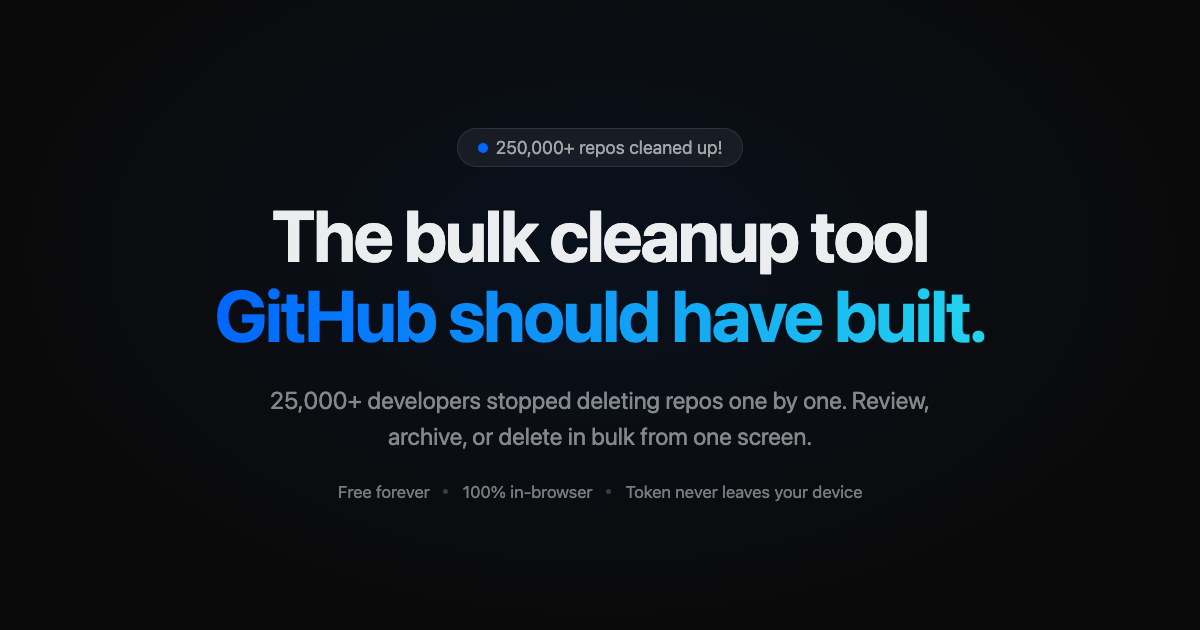
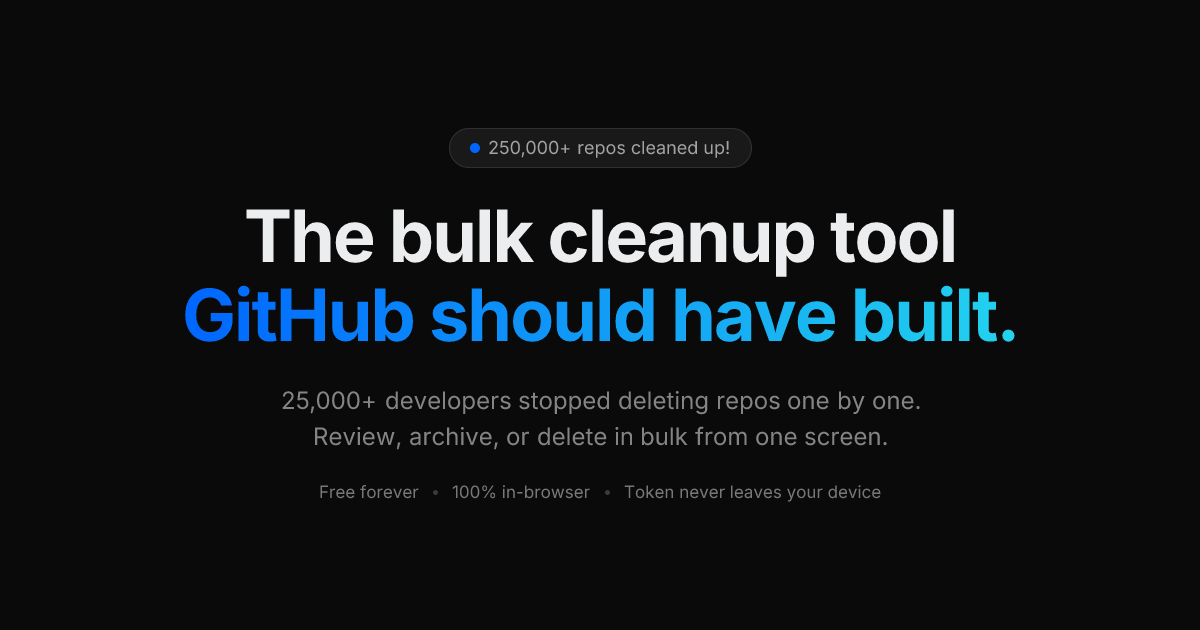
refactor: generate OG images with satori + resvg
Replace Playwright-based screenshot approach with satori (Vercel's
HTML-to-SVG lib) + @resvg/resvg-js for PNG rendering. OG image layout
is now defined in code using the same brand tokens as the landing page.

- scripts/generate-og-image.tsx — single source for both light + dark
- bun run generate:og — regenerate images when copy/branding changes
- Inter font via Google Fonts (gitignored, downloaded on first run)
- Both variants 56KB each

diff --git a/scripts/generate-og-image.tsx b/scripts/generate-og-image.tsx
@@ -1,0 +1,260 @@
+/**
+ * Generates OG images (light + dark) using Satori + Resvg.
+ *
+ * Uses the same brand tokens as the landing page hero:
+ *   --brand-blue: #0066ff
+ *   --brand-cyan: #06b6d4 (light) / #22d3ee (dark)
+ *
+ * Run: bun run scripts/generate-og-image.tsx
+ */
+import satori from "satori";
+import { Resvg } from "@resvg/resvg-js";
+import { readFileSync, writeFileSync } from "fs";
+import { join } from "path";
+
+// ── Brand tokens (from src/globals.css) ──
+const brand = {
+  blue: "#0066ff",
+  cyan: { light: "#06b6d4", dark: "#22d3ee" },
+};
+
+const light = {
+  bg: "#ffffff",
+  heading: "#11181c",
+  body: "#71717a",
+  trust: "#52525b",
+  trustDot: "#d4d4d8",
+  pillBg: "#f4f4f5",
+  pillBorder: "#e4e4e7",
+  pillText: "#71717a",
+};
+
+const dark = {
+  bg: "#0a0a0a",
+  heading: "#ecedee",
+  body: "rgba(255,255,255,0.5)",
+  trust: "rgba(255,255,255,0.45)",
+  trustDot: "rgba(255,255,255,0.2)",
+  pillBg: "rgba(255,255,255,0.06)",
+  pillBorder: "rgba(255,255,255,0.1)",
+  pillText: "rgba(255,255,255,0.6)",
+};
+
+// ── Load Inter static fonts (close match to system ui-sans-serif) ──
+const fontRegular = readFileSync(
+  join(import.meta.dirname, "fonts", "Inter-Regular.ttf"),
+);
+const fontBold = readFileSync(
+  join(import.meta.dirname, "fonts", "Inter-Bold.ttf"),
+);
+
+const fonts = [
+  {
+    name: "Inter",
+    data: fontRegular,
+    weight: 400 as const,
+    style: "normal" as const,
+  },
+  {
+    name: "Inter",
+    data: fontBold,
+    weight: 700 as const,
+    style: "normal" as const,
+  },
+];
+
+// ── OG Image Component ──
+function OgImage(theme: "light" | "dark") {
+  const t = theme === "light" ? light : dark;
+  const cyan = theme === "light" ? brand.cyan.light : brand.cyan.dark;
+
+  return {
+    type: "div",
+    props: {
+      style: {
+        width: "1200px",
+        height: "630px",
+        background: t.bg,
+        display: "flex",
+        alignItems: "center",
+        justifyContent: "center",
+        fontFamily: "Inter",
+      },
+      children: {
+        type: "div",
+        props: {
+          style: {
+            display: "flex",
+            flexDirection: "column",
+            alignItems: "center",
+            textAlign: "center",
+            gap: "28px",
+            padding: "0 80px",
+          },
+          children: [
+            // Pill badge
+            {
+              type: "div",
+              props: {
+                style: {
+                  display: "flex",
+                  alignItems: "center",
+                  gap: "8px",
+                  padding: "8px 20px",
+                  borderRadius: "9999px",
+                  background: t.pillBg,
+                  border: `1px solid ${t.pillBorder}`,
+                  fontSize: "18px",
+                  color: t.pillText,
+                },
+                children: [
+                  {
+                    type: "div",
+                    props: {
+                      style: {
+                        width: "10px",
+                        height: "10px",
+                        borderRadius: "50%",
+                        background: brand.blue,
+                      },
+                    },
+                  },
+                  "250,000+ repos cleaned up!",
+                ],
+              },
+            },
+            // Heading
+            {
+              type: "div",
+              props: {
+                style: {
+                  display: "flex",
+                  flexDirection: "column",
+                  alignItems: "center",
+                  gap: "0px",
+                },
+                children: [
+                  {
+                    type: "div",
+                    props: {
+                      style: {
+                        fontSize: "72px",
+                        fontWeight: 700,
+                        lineHeight: 1.1,
+                        letterSpacing: "-2px",
+                        color: t.heading,
+                      },
+                      children: "The bulk cleanup tool",
+                    },
+                  },
+                  {
+                    type: "div",
+                    props: {
+                      style: {
+                        fontSize: "72px",
+                        fontWeight: 700,
+                        lineHeight: 1.1,
+                        letterSpacing: "-2px",
+                        backgroundImage: `linear-gradient(to right, ${brand.blue}, ${cyan})`,
+                        backgroundClip: "text",
+                        color: "transparent",
+                      },
+                      children: "GitHub should have built.",
+                    },
+                  },
+                ],
+              },
+            },
+            // Subheading
+            {
+              type: "div",
+              props: {
+                style: {
+                  fontSize: "24px",
+                  color: t.body,
+                  lineHeight: 1.5,
+                  maxWidth: "680px",
+                },
+                children:
+                  "25,000+ developers stopped deleting repos one by one. Review, archive, or delete in bulk from one screen.",
+              },
+            },
+            // Trust badges
+            {
+              type: "div",
+              props: {
+                style: {
+                  display: "flex",
+                  alignItems: "center",
+                  gap: "14px",
+                  fontSize: "17px",
+                  color: t.trust,
+                },
+                children: [
+                  "Free forever",
+                  {
+                    type: "div",
+                    props: {
+                      style: {
+                        width: "5px",
+                        height: "5px",
+                        borderRadius: "50%",
+                        background: t.trustDot,
+                      },
+                    },
+                  },
+                  "100% in-browser",
+                  {
+                    type: "div",
+                    props: {
+                      style: {
+                        width: "5px",
+                        height: "5px",
+                        borderRadius: "50%",
+                        background: t.trustDot,
+                      },
+                    },
+                  },
+                  "Token never leaves your device",
+                ],
+              },
+            },
+          ],
+        },
+      },
+    },
+  };
+}
+
+// ── Generate ──
+async function generate(theme: "light" | "dark", filename: string) {
+  const svg = await satori(OgImage(theme) as any, {
+    width: 1200,
+    height: 630,
+    fonts,
+  });
+
+  const resvg = new Resvg(svg, {
+    fitTo: { mode: "width", value: 1200 },
+  });
+  const png = resvg.render().asPng();
+
+  const outPath = join(import.meta.dirname, "..", "public", "images", filename);
+  writeFileSync(outPath, png);
+  console.log(
+    `${filename}: ${(png.byteLength / 1024).toFixed(0)}KB → ${outPath}`,
+  );
+}
+
+await generate("light", "og-light.png");
+await generate("dark", "og-dark.png");
+
+// Copy light as default
+const lightPng = readFileSync(
+  join(import.meta.dirname, "..", "public", "images", "og-light.png"),
+);
+writeFileSync(
+  join(import.meta.dirname, "..", "public", "images", "og-image.png"),
+  lightPng,
+);
+console.log("og-image.png → copied from og-light.png");
